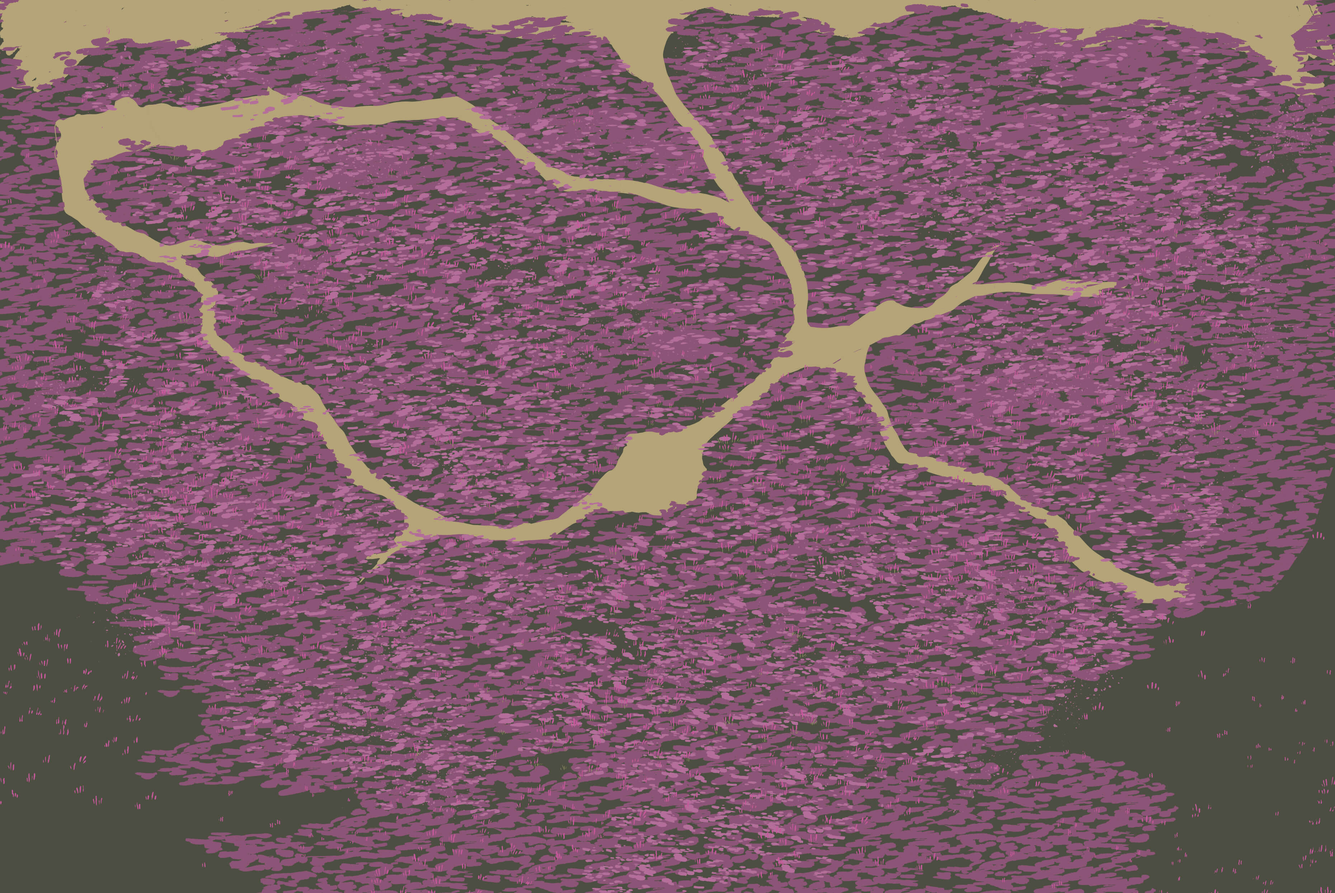
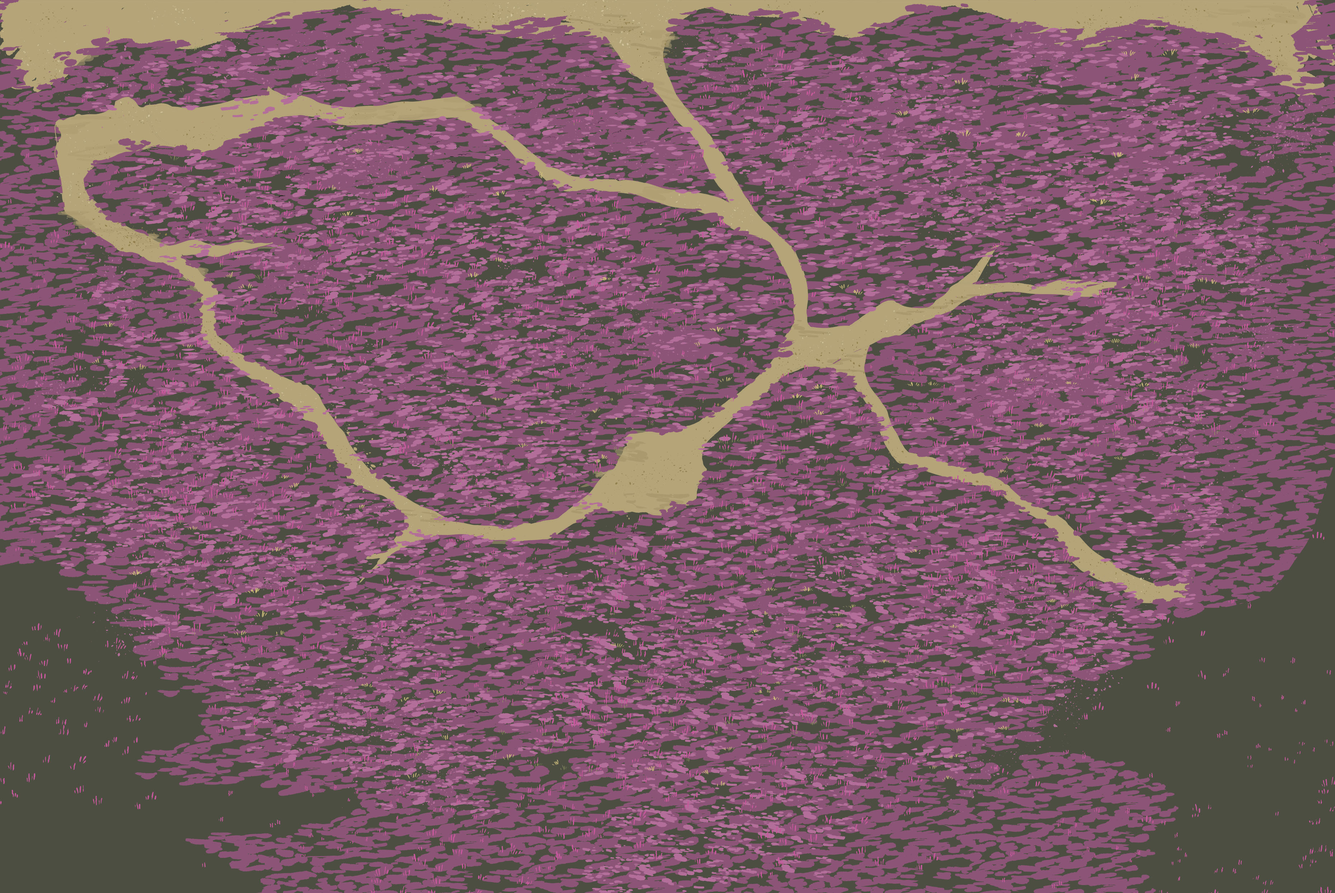
Moor background and journal

Changed region(s): [[0.4988, 0.0309, 0.53, 0.0619], [0.0935, 0.2475, 0.1247, 0.2784]]

diff --git a/js/scenes/Moor.js b/js/scenes/Moor.js
@@ -11,12 +11,13 @@ class Moor extends Phaser.Scene {
 
     // Loads all assets before scene starts
     preload() {
-        this.load.image("background", "../../img/moor_small.jpg");
+        this.load.image("background", "../../img/moor_tiny.jpg");
         this.load.image("bushes", "../../img/moor_bush_small.png");
         this.load.image("fence", "../../img/fence.png");
         this.load.image("car", "../../img/Objects/car.png");
         this.load.image("hag", "../../img/Objects/hag.png");
         this.load.image("detail", "../../img/Objects/detail.png");
+        this.load.image("journal", "../../img/Objects/journal.png");
 
         //this.load.atlas('player', '../../img/player/Animation/PlayerAnimation.png', '../../img/player/Animation/PlayerAnimation.json');
         
@@ -76,6 +77,12 @@ class Moor extends Phaser.Scene {
         //this.bushes.setOrigin(0, 0);
         this.detail.setDepth(6);
         
+        this.journal = this.add.image(0, 0, "journal");
+        this.journal.x = 810;
+        this.journal.y = 630;
+        this.journal.setScale(0.3);
+        //this.bushes.setOrigin(0, 0);
+        this.journal.setDepth(6);
 
         this.fence = new Level(this, "fence", 0);
 
